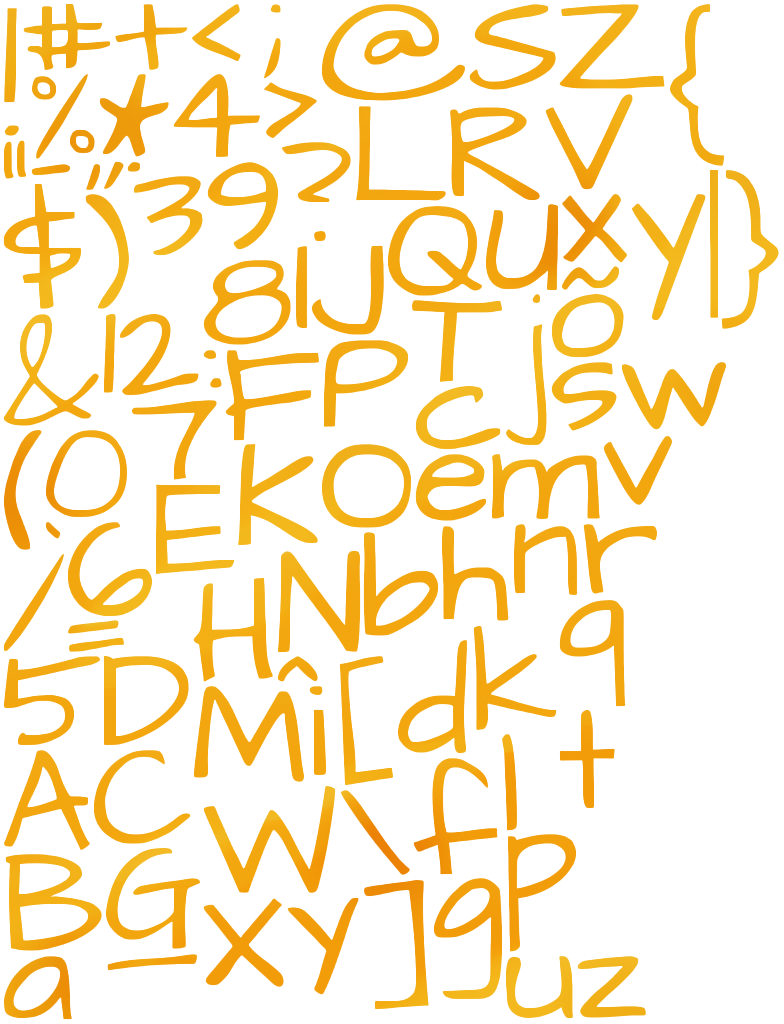
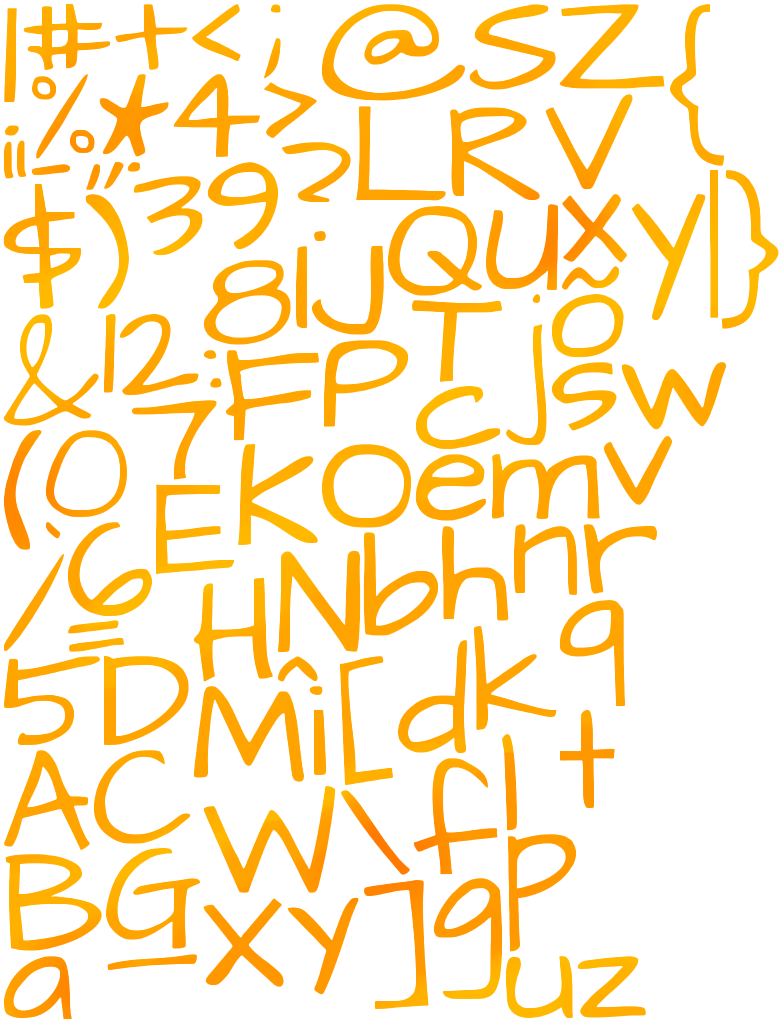
glidr: Stil-Variante B als einziges HD, ?gfx und Variante A entfernt

diff --git a/apps/glidr/src/main/assets/hd.js b/apps/glidr/src/main/assets/hd.js
@@ -1,16 +1,14 @@
-// HD-Grafik fuer glidr: Canvas in doppelter Aufloesung, Spiellogik bleibt 768x480.
-// URL-Parameter: ?hd=0 = Original (768x480, alte PNGs), ?gfx=b = Stil-Variante B.
+// HD-Grafik (glidr, moovr): Canvas in doppelter Aufloesung, Spiellogik bleibt 768x480.
+// URL-Parameter ?hd=0 = Original (768x480, alte PNGs) zum Vergleich.
 // Prinzip: Atlas-/Font-Koordinaten bleiben logisch (JSON/XML unveraendert),
 // die @2x-PNGs bekommen baseTexture.resolution=2 und nur das Zeichnen liest Quellpixel x2.
 (function () {
-    var q = new URLSearchParams(location.search);
-    var hd = q.get("hd") !== "0";
-    var styled = hd && q.get("gfx") === "b" ? ".styled" : "";
-    window.glidrHD = {
+    var hd = new URLSearchParams(location.search).get("hd") !== "0";
+    window.hdGfx = {
         on: hd,
         resolution: hd ? 2 : 1,
-        sprites: hd ? "assets/sprites/allsprites@2x" + styled + ".png" : "assets/sprites/allsprites.png",
-        font: hd ? "assets/fonts/font1@2x" + styled + ".png" : "assets/fonts/font1.png",
+        sprites: hd ? "assets/sprites/allsprites@2x.png" : "assets/sprites/allsprites.png",
+        font: hd ? "assets/fonts/font1@2x.png" : "assets/fonts/font1.png",
     };
     if (!hd) return;
 
@@ -21,7 +19,7 @@
             var base = PIXI.BaseTextureCache[key];
             if (base && /@2x/.test(url)) {
                 base.resolution = 2;
-                base.glidrHD = true;
+                base.hdGfx = true;
             }
             return r;
         };
@@ -30,12 +28,28 @@
     C.addTextureAtlas = markHD(C.addTextureAtlas);
     C.addBitmapFont = markHD(C.addBitmapFont);
 
+    // Einfaerben wie PIXI.CanvasTinter.tintWithMultiply, nur in Quellaufloesung
+    function tintHD(t, tint, B, canvas) {
+        var cr = t.crop, w = Math.round(cr.width * B), h = Math.round(cr.height * B);
+        canvas = canvas || document.createElement("canvas");
+        canvas.width = w;
+        canvas.height = h;
+        var c = canvas.getContext("2d"), src = t.baseTexture.source;
+        c.fillStyle = "#" + ("00000" + (tint | 0).toString(16)).substr(-6);
+        c.fillRect(0, 0, w, h);
+        c.globalCompositeOperation = "multiply";
+        c.drawImage(src, cr.x * B, cr.y * B, w, h, 0, 0, w, h);
+        c.globalCompositeOperation = "destination-atop";
+        c.drawImage(src, cr.x * B, cr.y * B, w, h, 0, 0, w, h);
+        return canvas;
+    }
+
     // Sprite/Image/BitmapText-Zeichen: Quelle = crop*B, Ziel = logisch*R (sonst Original-Pfad)
     var S = PIXI.Sprite.prototype;
     var spriteCanvas = S._renderCanvas;
     S._renderCanvas = function (rs) {
         var t = this.texture;
-        if (!t.baseTexture.glidrHD || this.tint !== 0xffffff) return spriteCanvas.call(this, rs);
+        if (!t.baseTexture.hdGfx) return spriteCanvas.call(this, rs);
         if (this.visible === false || this.alpha === 0 || this.renderable === false || t.crop.width <= 0 || t.crop.height <= 0) return;
         var ctx = rs.context, B = t.baseTexture.resolution, R = rs.resolution, wt = this.worldTransform, cr = t.crop;
         if (this.blendMode !== rs.currentBlendMode) {
@@ -56,7 +70,18 @@
                 dx |= 0;
                 dy |= 0;
             } else ctx.setTransform(wt.a, wt.b, wt.c, wt.d, wt.tx * R, wt.ty * R);
-            ctx.drawImage(t.baseTexture.source, cr.x * B, cr.y * B, cr.width * B, cr.height * B, dx * R, dy * R, cr.width * R, cr.height * R);
+            var src = t.baseTexture.source, sx = cr.x * B, sy = cr.y * B;
+            if (this.tint !== 0xffffff) {
+                // Animationen tauschen crop im selben Texture-Objekt -> Schluessel inkl. crop
+                var key = this.tint + ":" + cr.x + "," + cr.y + "," + cr.width + "," + cr.height;
+                if (this._hdTintKey !== key) {
+                    this._hdTintKey = key;
+                    this._hdTinted = tintHD(t, this.tint, B, this._hdTinted);
+                }
+                src = this._hdTinted;
+                sx = sy = 0;
+            }
+            ctx.drawImage(src, sx, sy, cr.width * B, cr.height * B, dx * R, dy * R, cr.width * R, cr.height * R);
         }
         for (var i = 0; i < this.children.length; i++) this.children[i]._renderCanvas(rs);
         if (this._mask) rs.maskManager.popMask(rs);
@@ -67,7 +92,7 @@
     var tileGen = T.generateTilingTexture, tileCanvas = T._renderCanvas;
     function hdSource(ts) {
         var e = ts.originalTexture || ts.texture;
-        return e.baseTexture.glidrHD ? e : null;
+        return e.baseTexture.hdGfx ? e : null;
     }
     T.generateTilingTexture = function (pow2) {
         var e = hdSource(this);
@@ -80,7 +105,7 @@
         this.tilingTexture = PIXI.Texture.fromCanvas(buf.canvas);
         this.tilingTexture.canvasBuffer = buf;
         this.tilingTexture.isTiling = true;
-        this.tilingTexture.glidrScale = B;
+        this.tilingTexture.hdScale = B;
         this.tileScaleOffset.x = 1 / B;
         this.tileScaleOffset.y = 1 / B;
         this.refreshTexture = false;
@@ -103,7 +128,7 @@
             rs.currentBlendMode = this.blendMode;
             ctx.globalCompositeOperation = PIXI.blendModesCanvas[rs.currentBlendMode];
         }
-        var B = this.tilingTexture.glidrScale || 1, p = this.tilePosition, s = this.tileScale;
+        var B = this.tilingTexture.hdScale || 1, p = this.tilePosition, s = this.tileScale;
         p.x %= this.tilingTexture.baseTexture.width / B;
         p.y %= this.tilingTexture.baseTexture.height / B;
         // wie Original, nur Musterpixel = 1/B Welteinheit

diff --git a/apps/glidr/src/main/assets/game.js b/apps/glidr/src/main/assets/game.js
@@ -77,7 +77,7 @@ var states = [],
                 (loaderFull.y = game.world.centerY - loaderFull.height / 2),
                 game.load.setPreloadSprite(loaderFull));
             game.load.script("gray", "Gray.js");
-            game.load.bitmapFont("desyrel", glidrHD.font, "assets/fonts/font1.xml");
+            game.load.bitmapFont("desyrel", hdGfx.font, "assets/fonts/font1.xml");
             game.load.audio("theme1", "assets/sounds/cowrag.ogg", !1);
             game.load.audio("map", "assets/sounds/cowtitlerag.ogg");
             game.load.audio("yeehaw", "assets/sounds/yeehaw.ogg");
@@ -112,7 +112,7 @@ var states = [],
                 ),
                     game.load.image("backgroundlevel" + i, "assets/levels/" + i + ".png");
             game.load.physics("physicsData", "./assets/polygons/rampleft.json");
-            game.load.atlas("allsprites", glidrHD.sprites, "assets/sprites/allsprites.jsona");
+            game.load.atlas("allsprites", hdGfx.sprites, "assets/sprites/allsprites.jsona");
         },
         create: function () {
             music = game.add.audio("map", 1, !0);
@@ -2645,7 +2645,7 @@ var game = new Phaser.Game({
     renderer: Phaser.CANVAS,
     parent: "",
     state: scaleConfig,
-    resolution: glidrHD.resolution,
+    resolution: hdGfx.resolution,
 });
 game.state.add("boot", BootState, !0);
 game.state.add("preload", PreloadState, !1);
